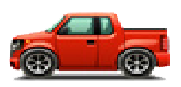
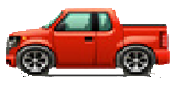
여러 종류의 차
차의 종류를 늘림

diff --git a/2DGP Project/car.py b/2DGP Project/car.py
@@ -2,17 +2,17 @@ import random
 
 from pico2d import *
 
+
 class RedCar:
     PIXEL_PER_METER = (10.0 / 0.3)           # 10 pixel 30 cm
     RED_CAR_SPEED_KMPH = 60.0                    # Km / Hour
     RED_CAR_SPEED_MPM = (RED_CAR_SPEED_KMPH * 1000.0 / 60.0)
     RED_CAR_SPEED_MPS = (RED_CAR_SPEED_MPM / 60.0)
     RED_CAR_SPEED_PPS = (RED_CAR_SPEED_MPS * PIXEL_PER_METER)
-
     image = None;
 
     def __init__(self):
-        self.x, self.y = 1000, random.randint(0, 5) * 100 + 80
+        self.x, self.y = 1000, random.randint(0, 8) * 100 + 70
         self.game_speed = 0.1
         self.car_speed = random.randint(1, 10)
         if RedCar.image == None:
@@ -24,7 +24,7 @@ class RedCar:
         self.y -= self.game_speed
         if self.y <= -20:
             self.x = 1000
-            self.y = random.randint(0, 5) * 100 + 80
+            self.y = random.randint(0, 8) * 100 + 80
 
 
     def draw(self):
@@ -38,25 +38,149 @@ class RedCar:
 
 
 class Truck(RedCar):
+    PIXEL_PER_METER = (10.0 / 0.3)           # 10 pixel 30 cm
+    TRUCK_SPEED_KMPH = 70.0                    # Km / Hour
+    TRUCK_SPEED_MPM = (TRUCK_SPEED_KMPH * 1000.0 / 60.0)
+    TRUCK_SPEED_MPS = (TRUCK_SPEED_MPM / 60.0)
+    TRUCK_SPEED_PPS = (TRUCK_SPEED_MPS * PIXEL_PER_METER)
     image = None
 
     def __init__(self):
-        self.x, self.y = random.randint(100, 700), 500
-        self.fall_speed = random.randint(200,300)
+        self.x, self.y = -1000, random.randint(0, 8) * 100 + 70
+        self.game_speed = 0.1
+        self.car_speed = random.randint(1, 10)
         if Truck.image == None:
-            Truck.image = load_image('ball41x41.png')
+            Truck.image = load_image('truck.png')
         self.parent = None
 
-
-    def stop(self):
-        self.fall_speed = 0
+    #def stop(self):
+     #   self.car_speed = 0
 
     def update(self, frame_time):
         if self.parent:
             self.x = self.parent.x + self.rx
             self.y = self.parent.y + self.ry
         else:
-            self.y -= frame_time * self.fall_speed
+            distance = Truck.TRUCK_SPEED_PPS * frame_time
+            self.x += distance * (self.game_speed * self.car_speed)
+            self.y -= self.game_speed
+            if self.y <= -20:
+                self.x = -1000
+                self.y = random.randint(0, 8) * 100 + 80
+
+    def get_bb(self):
+        return self.x - 20, self.y - 20, self.x + 20, self.y + 20
+
+    def set_parent(self, brick):
+        self.parent = brick
+        self.rx = self.x - brick.x
+        self.ry = self.y - brick.y
+        pass
+
+
+class BlueCar(RedCar):
+    PIXEL_PER_METER = (10.0 / 0.3)           # 10 pixel 30 cm
+    BLUE_CAR_SPEED_KMPH = 50.0                    # Km / Hour
+    BLUE_CAR_SPEED_MPM = (BLUE_CAR_SPEED_KMPH * 1000.0 / 60.0)
+    BLUE_CAR_SPEED_MPS = (BLUE_CAR_SPEED_MPM / 60.0)
+    BLUE_CAR_SPEED_PPS = (BLUE_CAR_SPEED_MPS * PIXEL_PER_METER)
+    image = None
+
+    def __init__(self):
+        self.x, self.y = 1000, random.randint(0, 8) * 100 + 70
+        self.game_speed = 0.1
+        self.car_speed = random.randint(1, 10)
+        if BlueCar.image == None:
+            BlueCar.image = load_image('bluecar.png')
+        self.parent = None
+
+    #def stop(self):
+     #   self.car_speed = 0
+
+    def update(self, frame_time):
+        if self.parent:
+            self.x = self.parent.x + self.rx
+            self.y = self.parent.y + self.ry
+        else:
+            distance = BlueCar.BLUE_CAR_SPEED_PPS * frame_time
+            self.x -= distance * (self.game_speed * self.car_speed)
+            self.y -= self.game_speed
+            if self.y <= -20:
+                self.x = 1000
+                self.y = random.randint(0, 8) * 100 + 80
+
+
+class GreenCar(RedCar):
+    PIXEL_PER_METER = (10.0 / 0.3)           # 10 pixel 30 cm
+    GREEN_CAR_SPEED_KMPH = 40.0                    # Km / Hour
+    GREEN_CAR_SPEED_MPM = (GREEN_CAR_SPEED_KMPH * 1000.0 / 60.0)
+    GREEN_CAR_SPEED_MPS = (GREEN_CAR_SPEED_MPM / 60.0)
+    GREEN_CAR_SPEED_PPS = (GREEN_CAR_SPEED_MPS * PIXEL_PER_METER)
+    image = None
+
+    def __init__(self):
+        self.x, self.y = 1000, random.randint(0, 8) * 100 + 70
+        self.game_speed = 0.1
+        self.car_speed = random.randint(1, 10)
+        if GreenCar.image == None:
+            GreenCar.image = load_image('greencar.png')
+        self.parent = None
+
+    #def stop(self):
+     #   self.car_speed = 0
+
+    def update(self, frame_time):
+        if self.parent:
+            self.x = self.parent.x + self.rx
+            self.y = self.parent.y + self.ry
+        else:
+            distance = GreenCar.GREEN_CAR_SPEED_PPS * frame_time
+            self.x -= distance * (self.game_speed * self.car_speed)
+            self.y -= self.game_speed
+            if self.y <= -20:
+                self.x = 1000
+                self.y = random.randint(0, 8) * 100 + 80
+
+    def get_bb(self):
+        return self.x - 20, self.y - 20, self.x + 20, self.y + 20
+
+    def set_parent(self, brick):
+        self.parent = brick
+        self.rx = self.x - brick.x
+        self.ry = self.y - brick.y
+        pass
+
+
+class YellowCar(RedCar):
+    PIXEL_PER_METER = (10.0 / 0.3)           # 10 pixel 30 cm
+    YELLOW_CAR_SPEED_KMPH = 100.0                    # Km / Hour
+    YELLOW_CAR_SPEED_MPM = (YELLOW_CAR_SPEED_KMPH * 1000.0 / 60.0)
+    YELLOW_CAR_SPEED_MPS = (YELLOW_CAR_SPEED_MPM / 60.0)
+    YELLOW_CAR_SPEED_PPS = (YELLOW_CAR_SPEED_MPS * PIXEL_PER_METER)
+    image = None
+
+    def __init__(self):
+        self.x, self.y = 1000, random.randint(2, 5) * 100 + 70
+        self.game_speed = 0.1
+        self.car_speed = 15
+        if YellowCar.image == None:
+            YellowCar.image = load_image('yellowcar.png')
+        self.parent = None
+
+    #def stop(self):
+    #   self.car_speed = 0
+
+    def update(self, frame_time):
+        if self.parent:
+            self.x = self.parent.x + self.rx
+            self.y = self.parent.y + self.ry
+        else:
+            distance = YellowCar.YELLOW_CAR_SPEED_PPS * frame_time
+            self.x -= distance * (self.game_speed * self.car_speed)
+            self.y -= self.game_speed
+            if self.y <= -20:
+                self.x = 1000
+                self.y = random.randint(2, 5) * 100 + 80
 
     def get_bb(self):
         return self.x - 20, self.y - 20, self.x + 20, self.y + 20

diff --git a/2DGP Project/main_state.py b/2DGP Project/main_state.py
@@ -4,7 +4,7 @@ import game_framework
 
 
 from boy import Boy # import Boy class from boy.py
-from car import RedCar, Truck
+from car import RedCar, Truck, GreenCar, YellowCar, BlueCar
 from road import Road
 
 
@@ -17,12 +17,15 @@ trucks = None
 road = None
 
 def create_world():
-    global boy, road, red_cars, trucks
+    global boy, road, red_cars, trucks, blue_cars, yellow_cars, green_cars
 
     boy = Boy()
     trucks = [Truck() for i in range(3)]
-    red_cars = [RedCar() for i in range(5)]
-    red_cars = trucks + red_cars
+    green_cars = [GreenCar() for i in range(3)]
+    blue_cars = [BlueCar() for i in range(4)]
+    yellow_cars = [YellowCar() for i in range(2)]
+    red_cars = [RedCar() for i in range(4)]
+    red_cars = red_cars + trucks + blue_cars + yellow_cars + green_cars
     road = Road()
 
 
@@ -89,11 +92,10 @@ def update(frame_time):
     for car in red_cars:
         if collide(boy, car):
             red_cars.remove(car)
-            # fill here
 
-    for car in trucks:
-        if collide(road, car):
-            car.stop()
+    #for car in trucks:
+     #   if collide(road, car):
+      #      car.stop()
 
     boy.update(frame_time)
 
